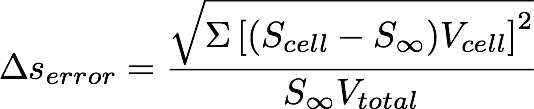
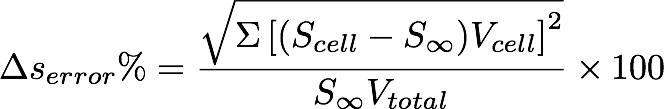
Fixed: mistakes in documentation

diff --git a/docs/user_guide/03_test.md b/docs/user_guide/03_test.md
@@ -1,10 +1,10 @@
 title: Test
 
-Since it is not possible to perform unit test with the current status of FEST-3D,
+Since it is not possible to perform unit tests with the current status of FEST-3D,
 we have defined a few integrated test cases. Using this integrated method, 
 you can test the implementation of various flux-schemes, higher-order methods, and turbulence models.
-Any new scheme added to the FEST-3D can also be tested using the same framework.
-A python script, `Test.py`, provided in the `test/` directory to run the integrated test
+Any new scheme added to FEST-3D can also be tested using the same framework.
+A python script, `Test.py`, is provided in the `test/` directory to run the integrated tests
 with a particular flux scheme, higher-order method, and turbulence model.
 Use the following command to run all tests in the `test/` directory.
 
@@ -65,20 +65,24 @@ The integrated tests use two processes with MPICH library. Three different test 
 
 | S.No.&nbsp;&nbsp;&nbsp; 	| Test case &nbsp;&nbsp;&nbsp;	| Expected value &nbsp;&nbsp;&nbsp; | Tolereance % 	|
 |:-------	:|:-----------	|:------------------------------	|:------------	:|
-| 1     	| Inviscid  	| Change in entropy = 0.0      	| 0.1%       	|
+| 1     	| Inviscid  	| Change in entropy = 0.0%      	| 0.1%       	|
 | 2.    	| Laminar   	| Cofficient of drag = 0.00133 	| 1%         	|
 | 3.    	| Turbulent 	| Cofficient of drag = 0.00290 	| 2%         	|
 
 
-The change in entropy is calculated using following expression:
+The percentage change or error(Tolerance) in entropy is calculated using following expression:
 <figure>
   <div style="display: flex; flex-wrap: wrap; justify-content: center; align-items:center">
     <img src="|media|/error.png" alt="Domain" style="width:250px">
   </div>
 </figure>
 
+Here, **S** is entropy, and **V** is volume. Subscript _cell_ is used for cell variable,
+ _infinity_ is used for freestream quantity, and _total_ is used for to whole domain value.
 
-For more details about domain, boundary conditions and flow conditions of these test cases, check the Tutorial section. The solver setup (domain, grid, flow and boundary conditions) is same as listed in the separate tutorials.
+
+For more details about domain, boundary conditions and flow conditions of these test cases, 
+check the Tutorial section. The solver setup (domain, grid, flow and boundary conditions) is same as listed in the separate tutorials.
 
 Once the tests are complete, you can check the test summary in `Report.txt` file.
 ``` 
